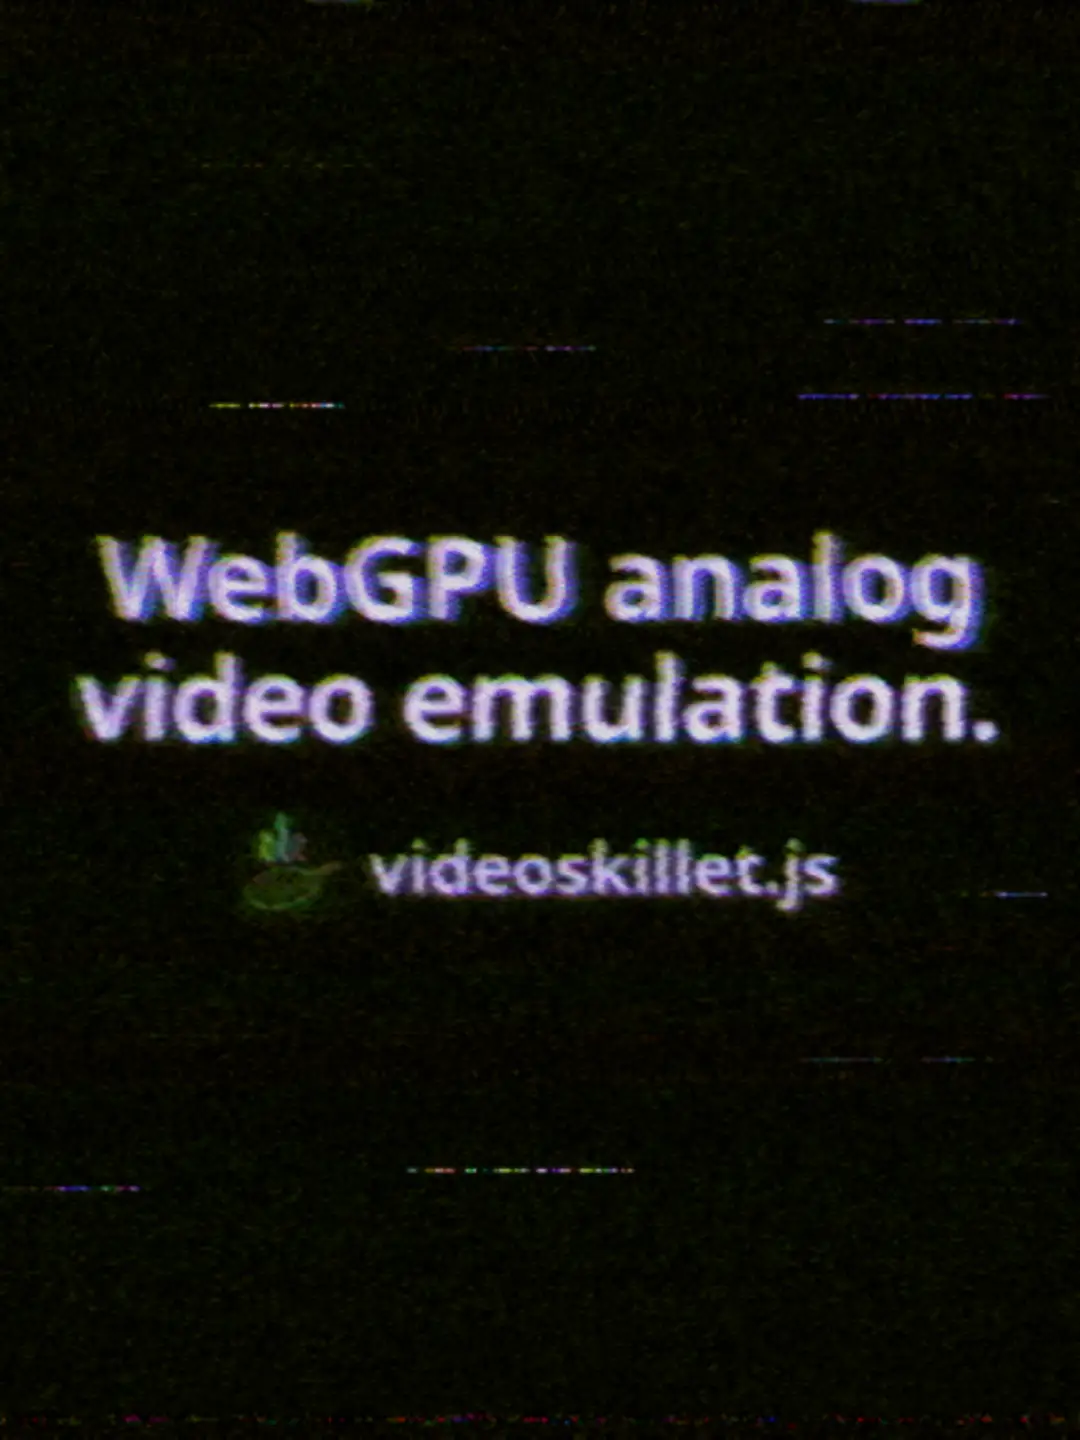
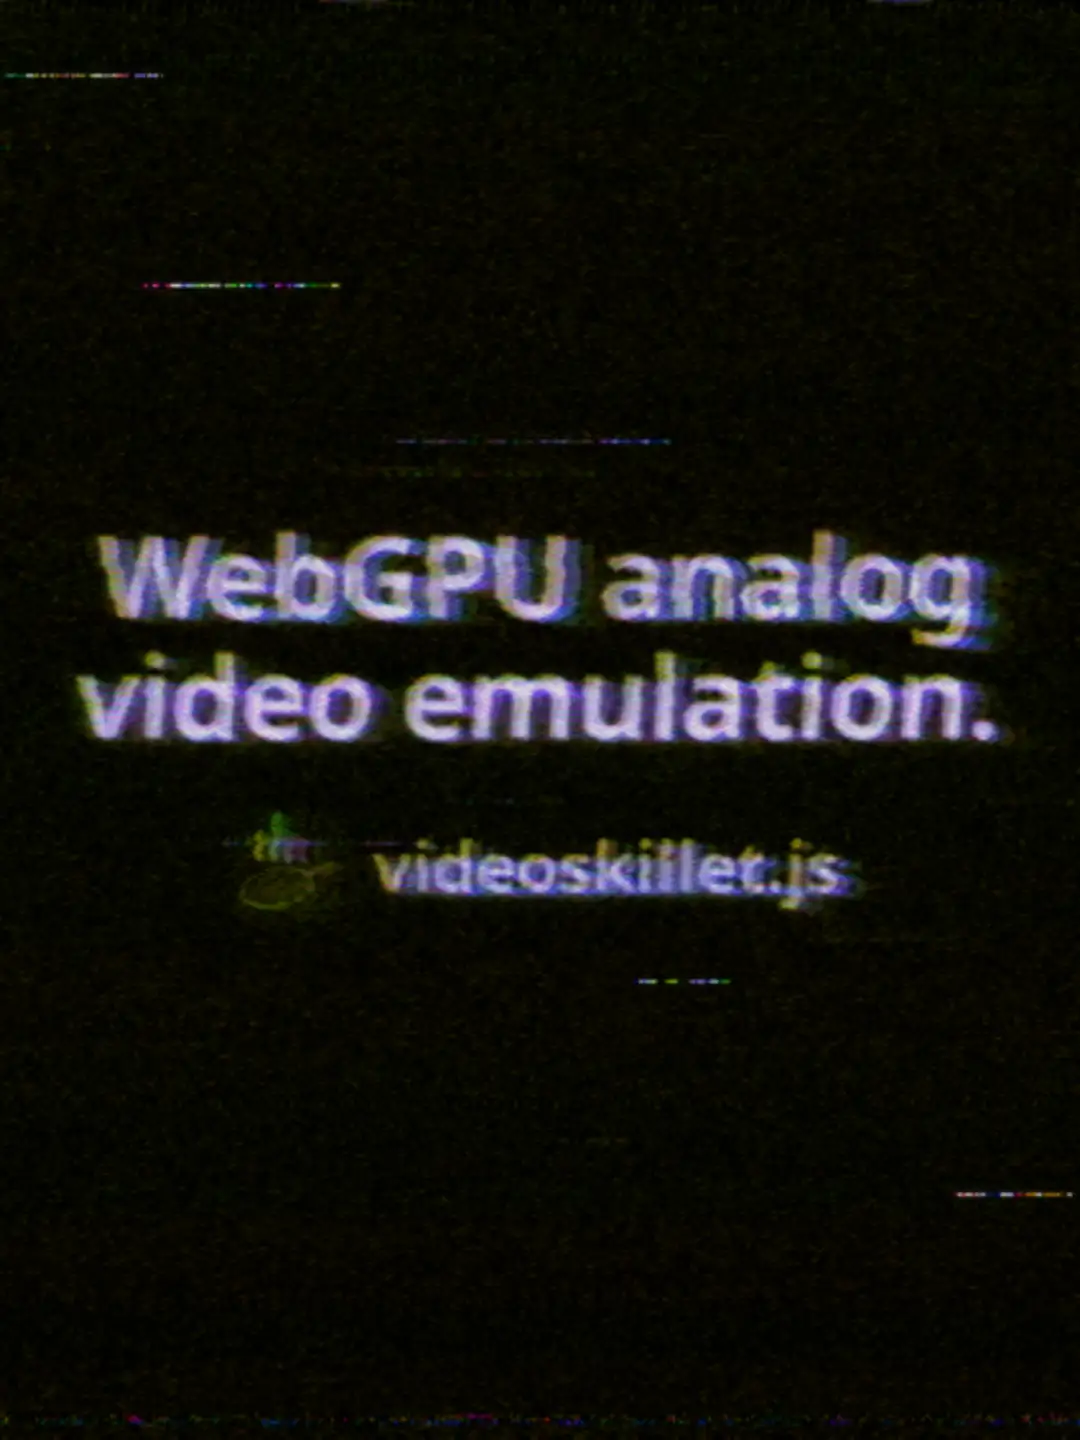
feat(ui): the header's card is one stack, name and all
The lockup stood beside the headline, and a picture of two blocks side by
side reads as two things rather than one card. It goes under the words now,
the way the link preview has it, so all three plates are the same
arrangement and the header says what the preview says.

Beside was there for the height it saved. A letterbox header keeps a 5:1
slice of the plate on a 3440-wide window — some 300 of its 1200 rows — and a
stack has to fit inside that, so the wide plate's type comes down six per
cent and its card stands 295. That is what the name costs; the two plates
that are not letterboxes keep the sizes they had. `place` went with it, and
the space between the mark and the word now comes off the wordmark's own size
rather than off the gap above it, which is the same 26 the preview had.

diff --git a/docs/DEVELOPMENT.md b/docs/DEVELOPMENT.md
@@ -694,10 +694,10 @@ link preview are no demo's still any more:
 [`../scripts/heroplate.mjs`](../scripts/heroplate.mjs) sets the headline in the
 h1's own typeface, photographs it, runs the plate through the app and reads the
 canvas back, so the words on the page are a picture of what the program does to
-words. The mark and the wordmark go onto every plate with the headline, which is
-why they carry the same fringe — beside the words on the wide header, where a
-letterbox crop has width to spare and no height at all, and under them on the
-portrait and link-preview plates, which have the height and not the width.
+words. The mark and the wordmark go onto every plate under the headline, which is
+why they carry the same fringe. What changes between the three is the size, and
+the wide header sets its own: the crop it has to survive is a 5:1 slice of the
+plate, so the type there gives up six per cent to make room for the name.
 [`../scripts/reel.mjs`](../scripts/reel.mjs) is the carousel, which records the
 **app's own window** instead — the panel, the map and a pointer moving over
 them. That split is the point of the page: the picture is what the program
